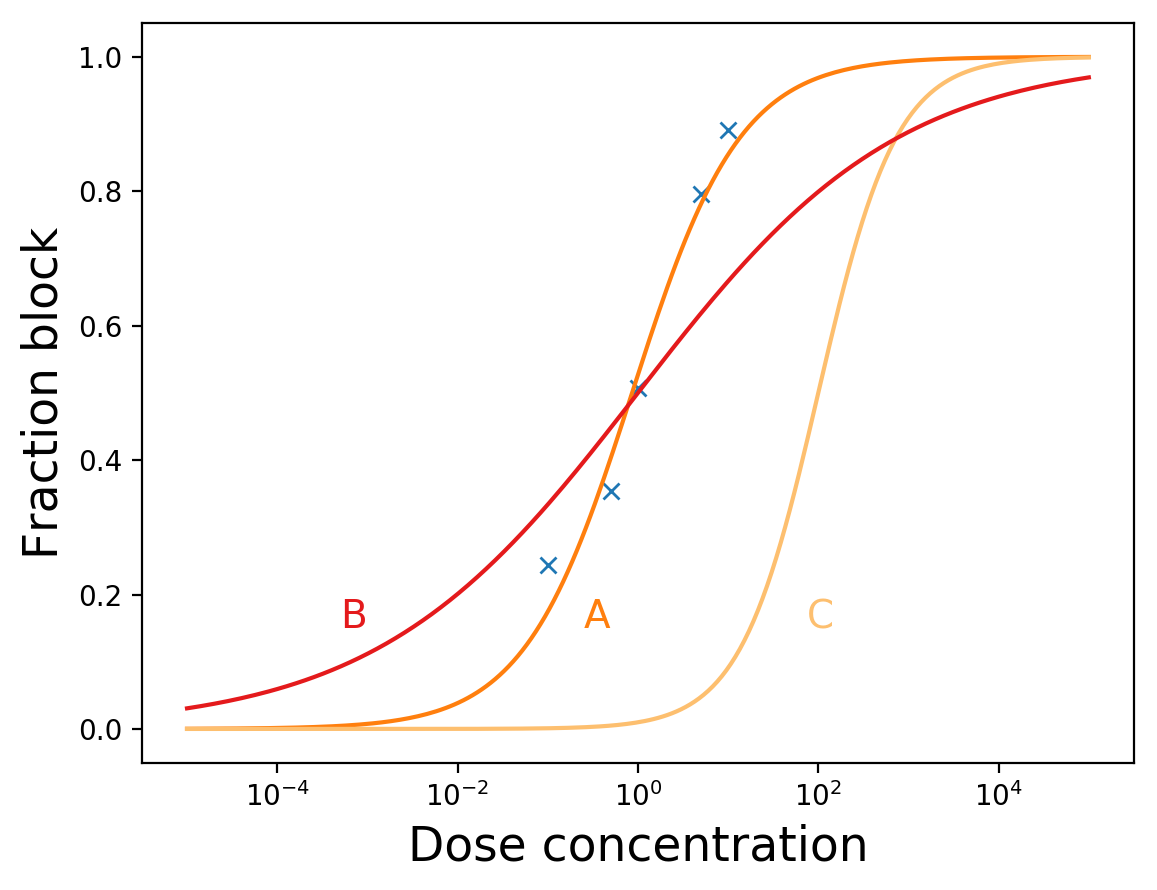
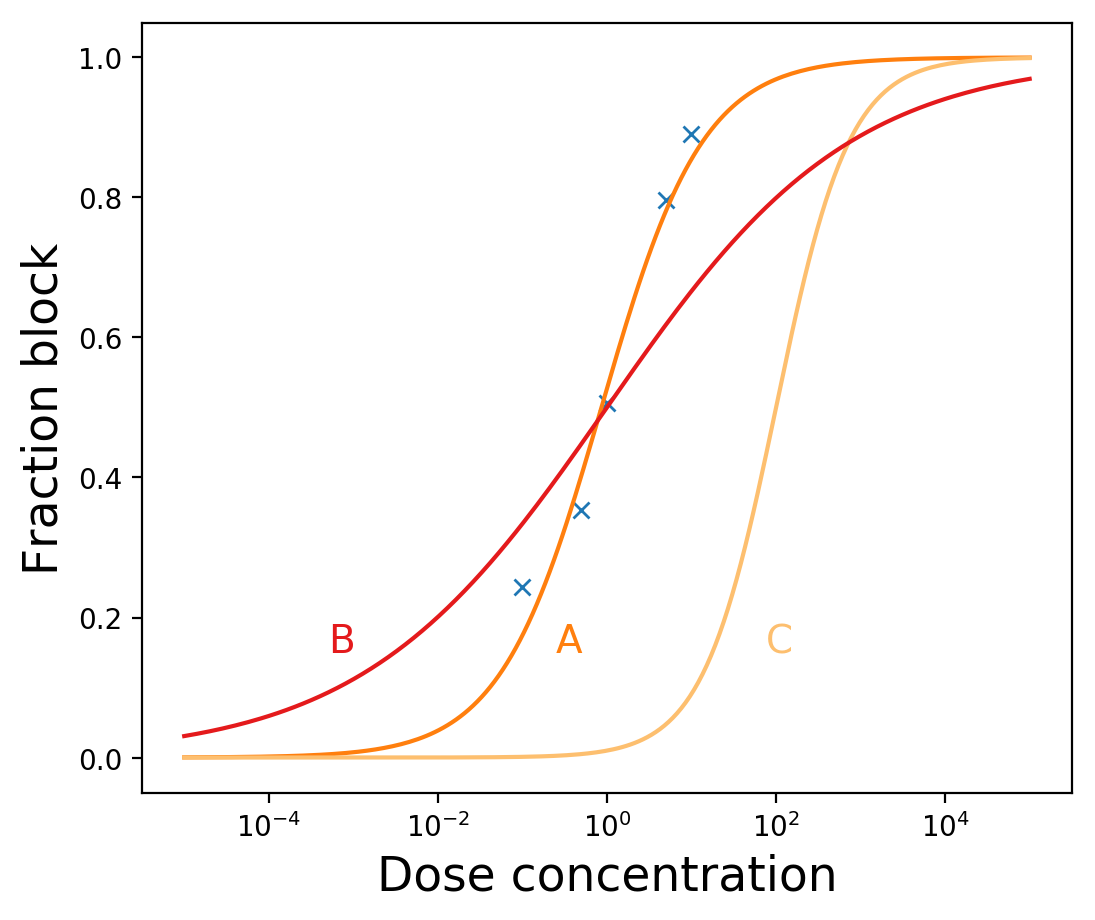
Fix figure size

diff --git a/fig6-parameter-transformation-example/hill-fit.py b/fig6-parameter-transformation-example/hill-fit.py
@@ -32,11 +32,6 @@ ic50_true = 1.2
 n_true = 0.85
 ydata = hill(xdata, ic50_true, n_true)
 ydata += np.random.normal(0, 0.05, size=xdata.shape)
-plt.plot(xdata, ydata, 'x')
-plt.ylabel('Fraction block')
-plt.xlabel('Concentration')
-plt.xscale('log')
-plt.close()
 
 # Bounds
 ic50u = 1000.
@@ -68,6 +63,7 @@ p0_all.append(p0)
 popt_all.append(popt)
 
 # Plot illustration
+plt.figure(figsize=(6, 5))
 plt.plot(xdata, ydata, 'x')
 plt.plot(xfunc, hill(xfunc, *popt), c='#ff7f0e')
 plt.text(0.25, 0.15, 'A', fontsize=14, color='#ff7f0e')
